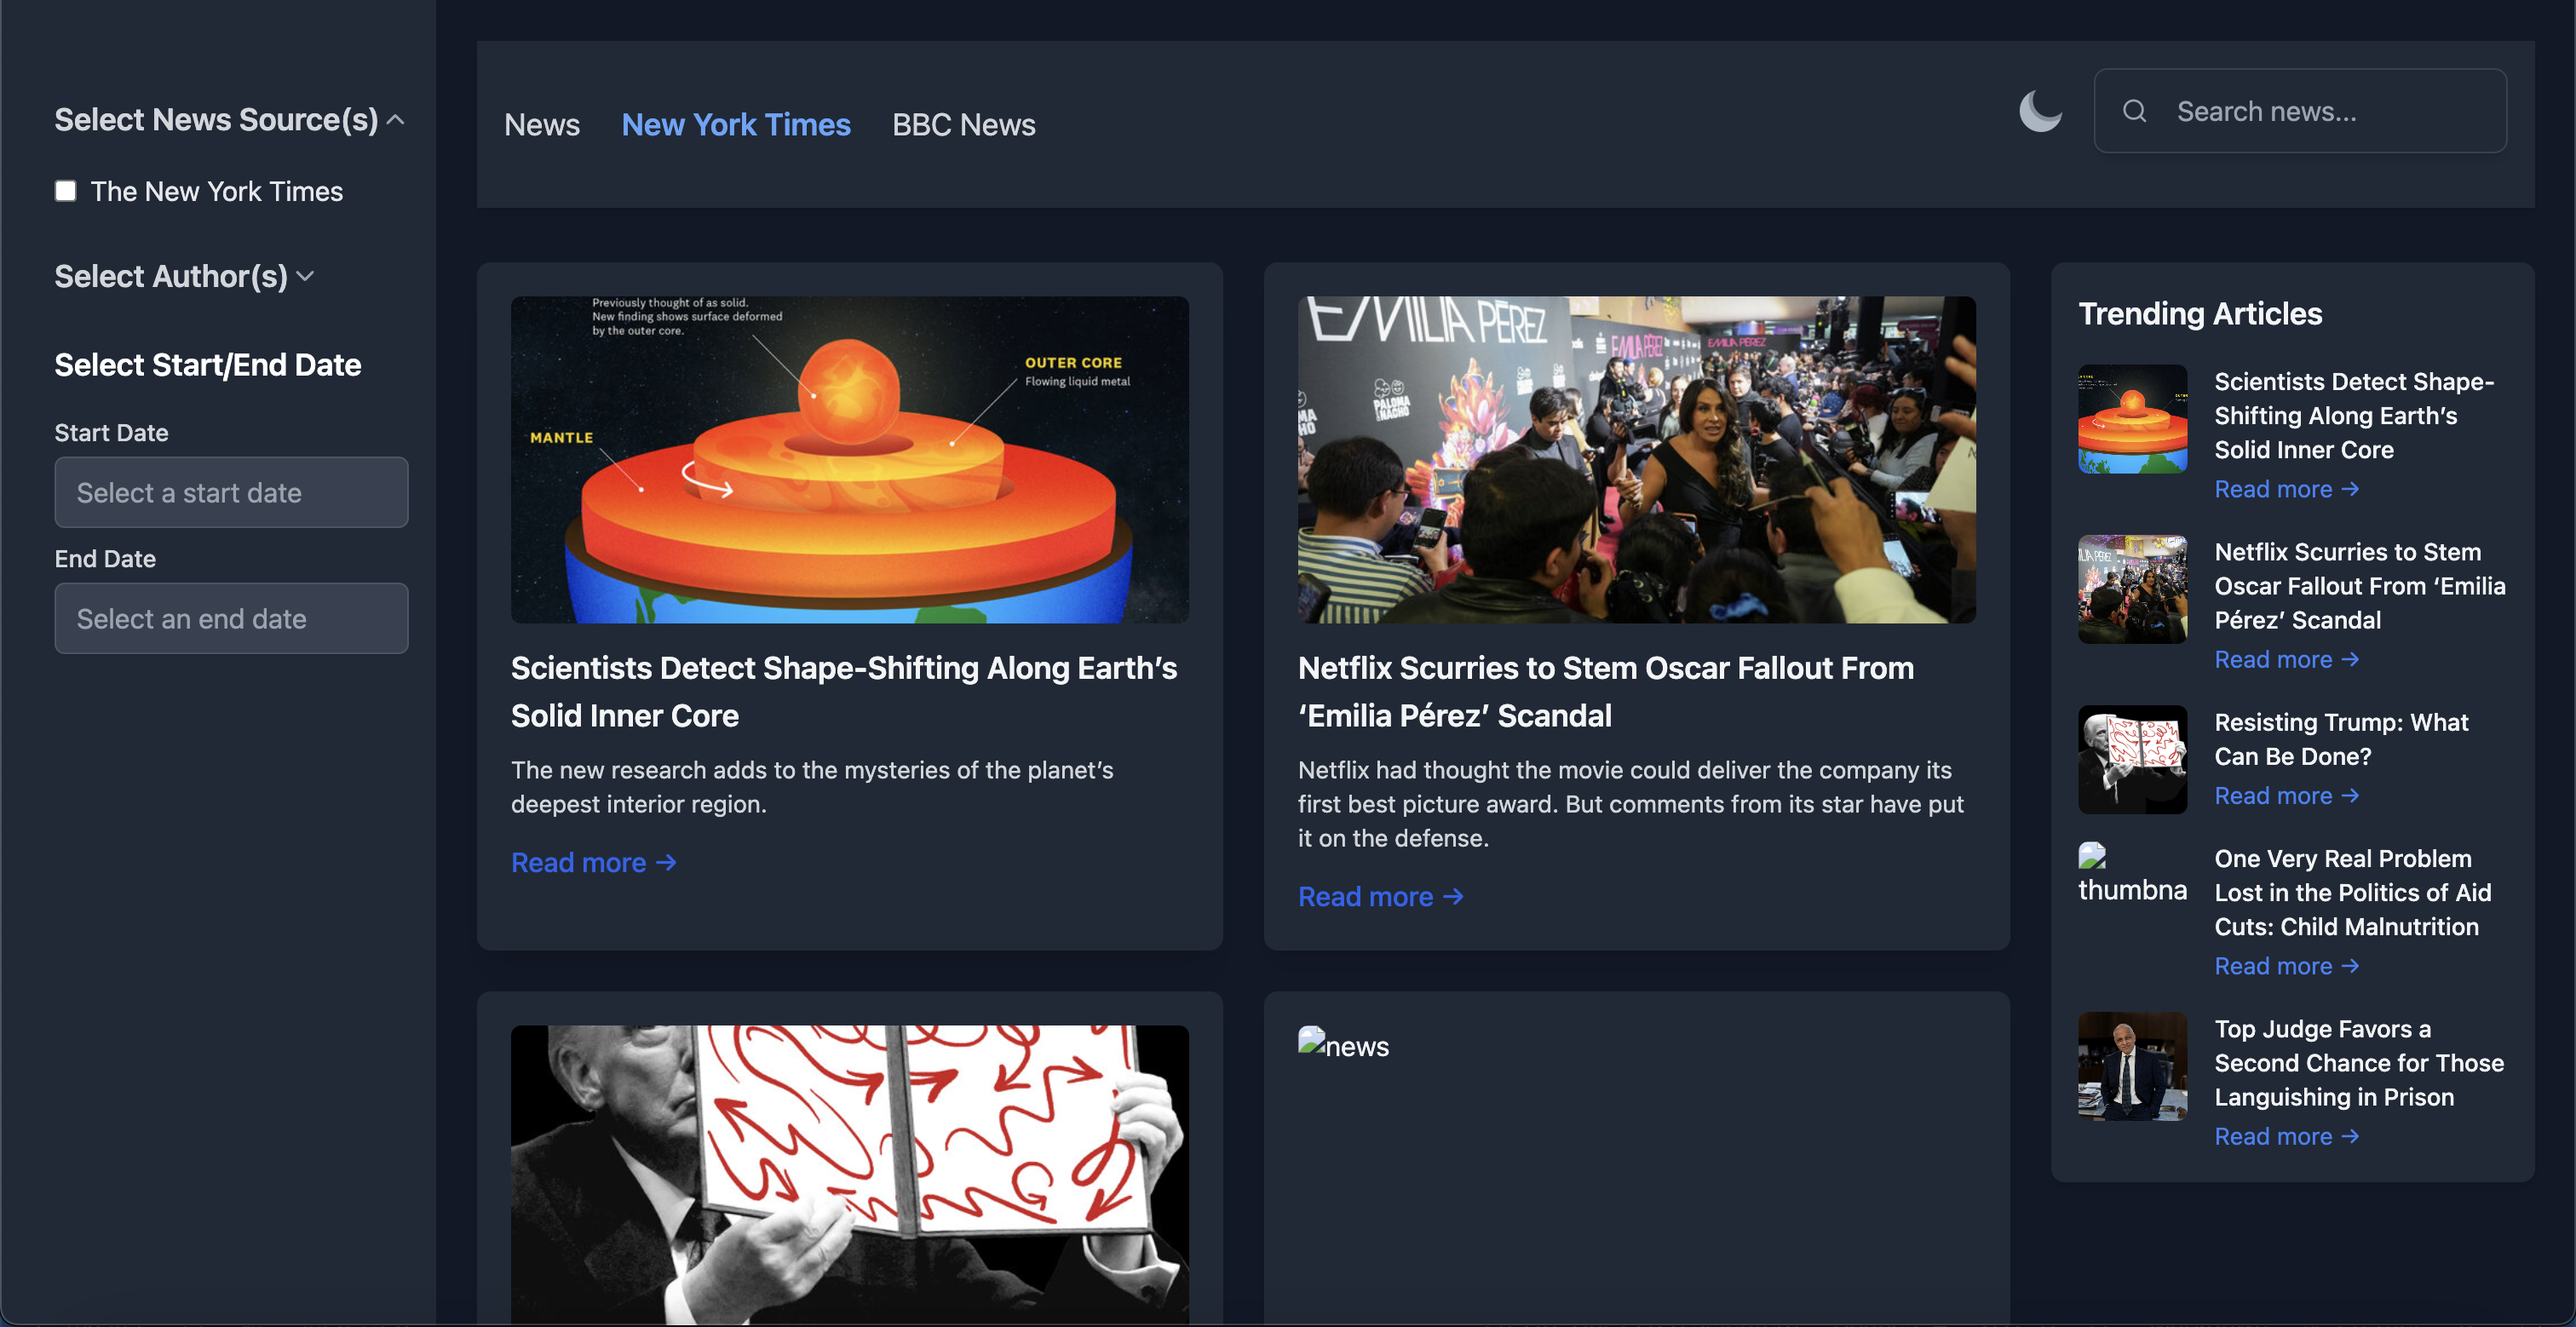
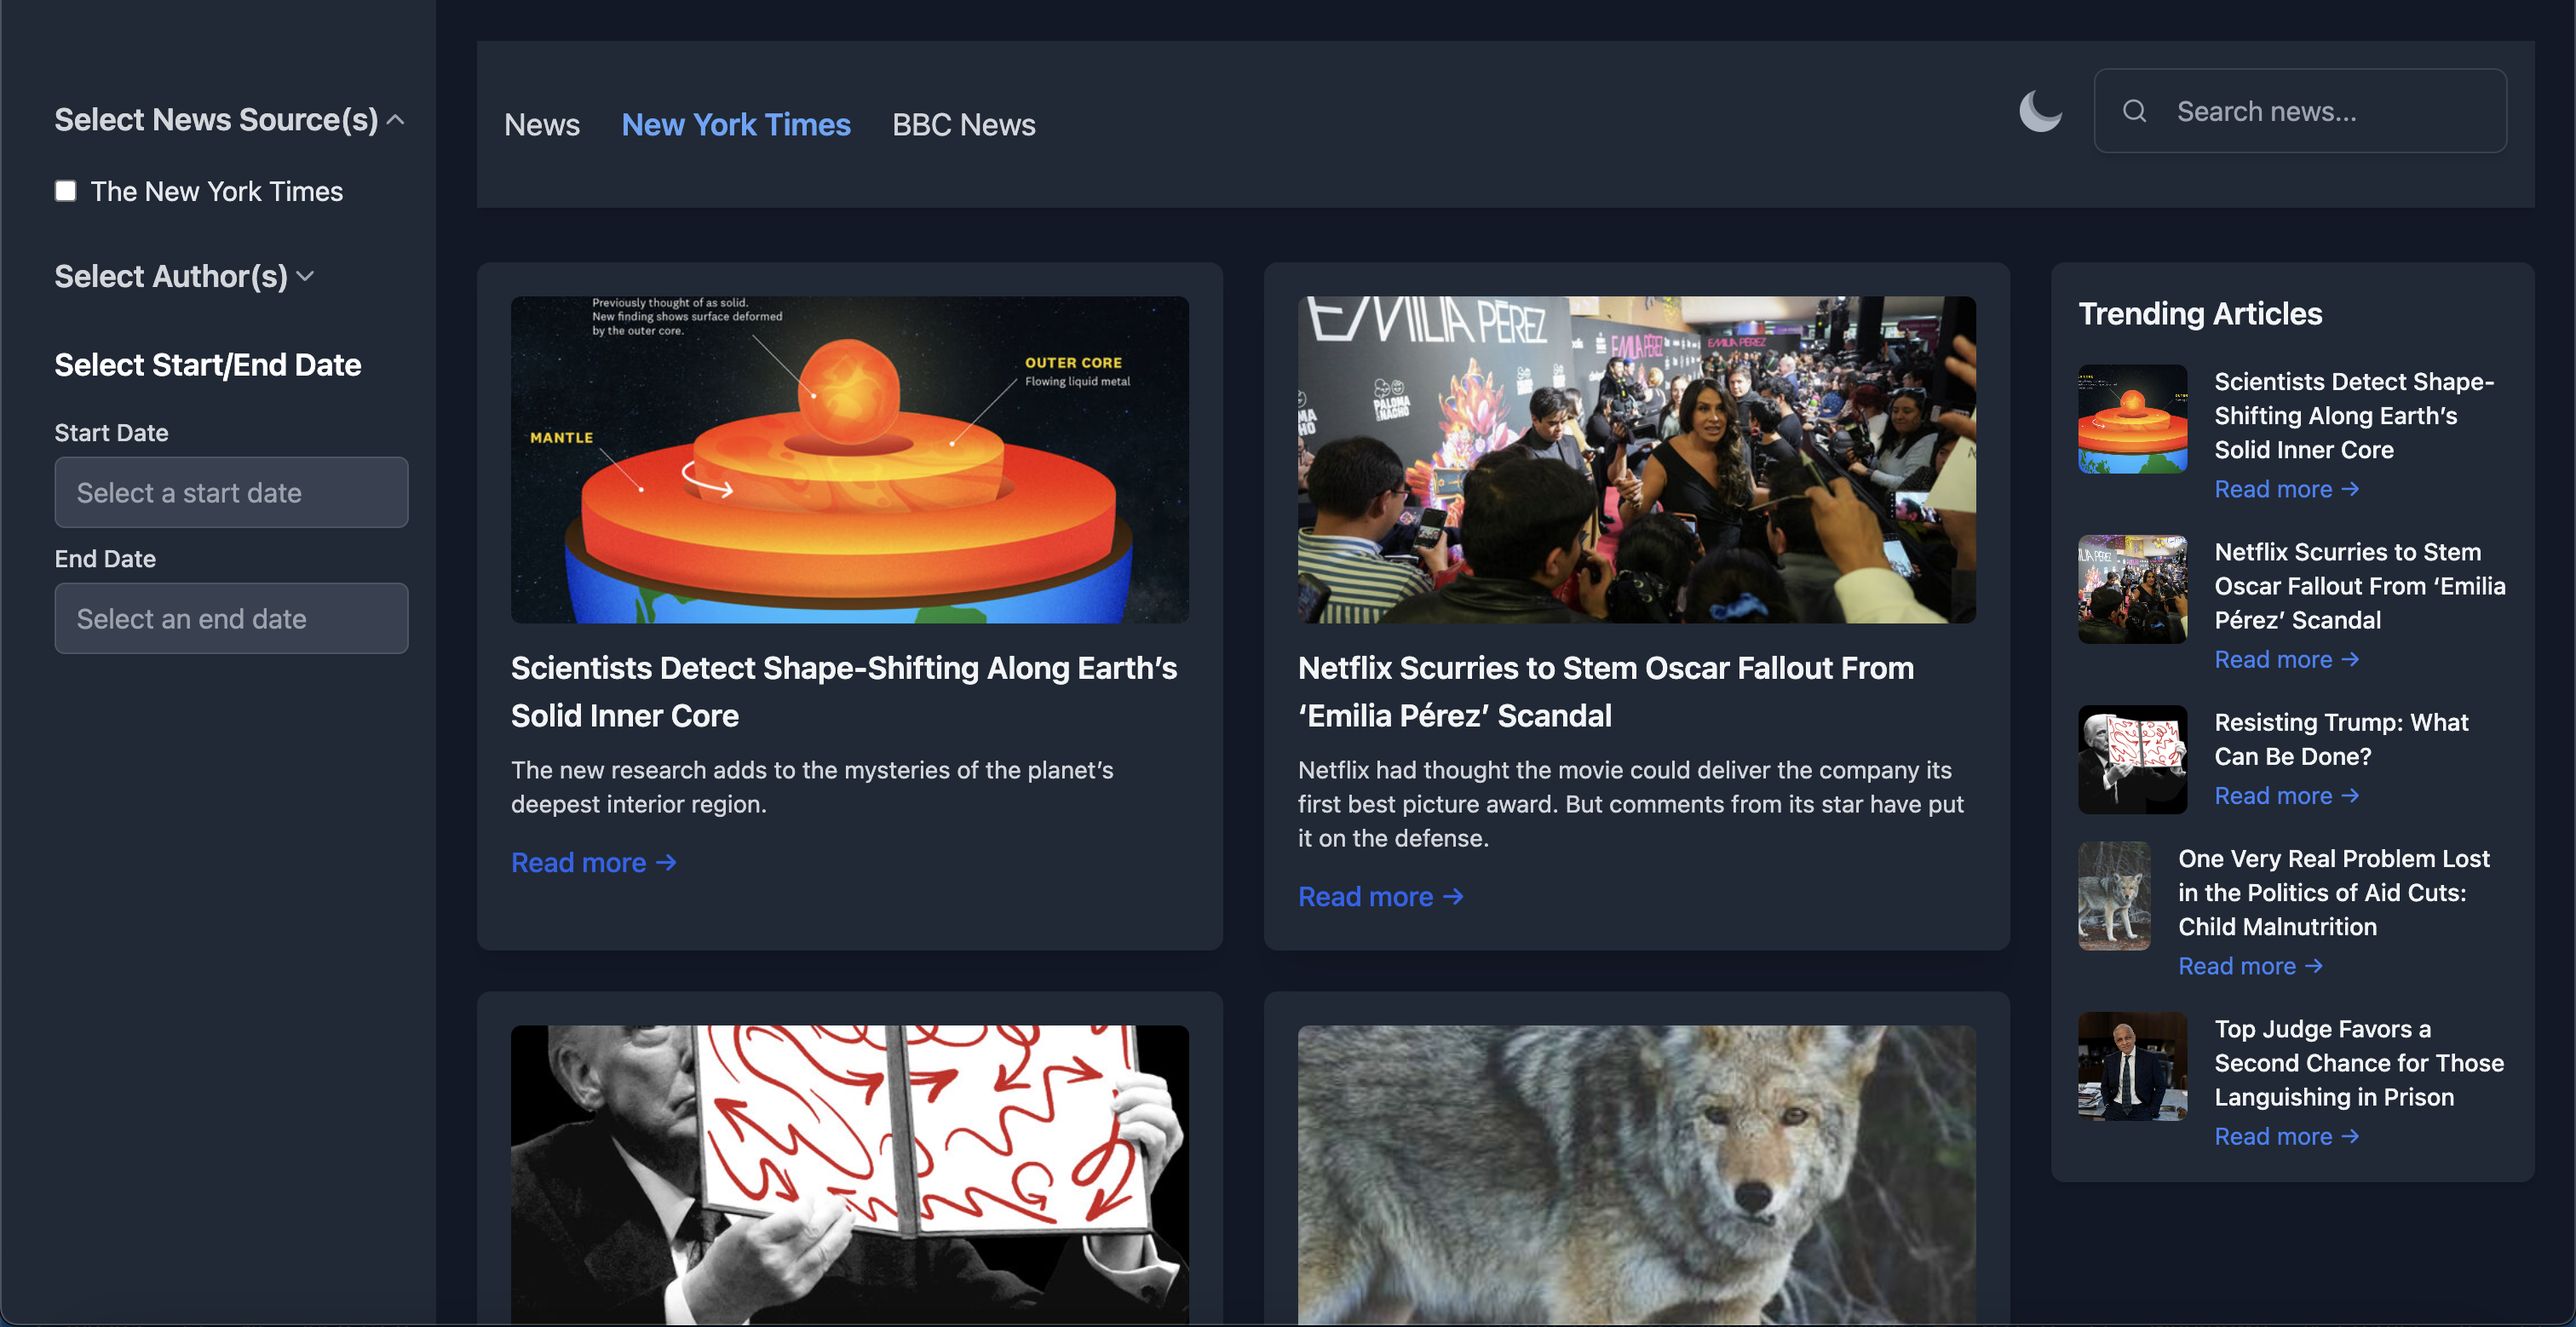
fixed image loading issue

Changed region(s): [[0.4974, 0.7702, 0.7771, 1.0], [0.8082, 0.6162, 0.9636, 0.7394]]

diff --git a/src/hooks/useNewYorkTimesArticleFilter.ts b/src/hooks/useNewYorkTimesArticleFilter.ts
@@ -122,8 +122,13 @@ const useNewYorkTimesArticleFilter = () => {
   }));
 
   const updatedArticles = filteredArticles?.map((article: any) => {
-    const imageUrl =
-      process.env.REACT_APP_API_UR + article?.multimedia?.[0]?.url;
+    let imageUrl;
+    if (article?.multimedia?.[0]?.url) {
+      imageUrl = process.env.REACT_APP_API_UR + article?.multimedia?.[0]?.url;
+    } else {
+      imageUrl = "https://picsum.photos/400/600";
+    }
+
     const description = article?.abstract;
 
     return {

diff --git a/src/components/common/ArticleContent.tsx b/src/components/common/ArticleContent.tsx
@@ -17,7 +17,7 @@ const ArticleContent: React.FC<ArticleContentProps> = ({
   status,
   articles,
 }: ArticleContentProps) => {
-  const placeHolderUrl = "";
+  const placeHolderUrl = "https://picsum.photos/400/600";
   return (
     <section className="lg:col-span-3">
       <div className="grid gap-6 grid-cols-1 sm:grid-cols-2">

diff --git a/README.md b/README.md
@@ -61,7 +61,7 @@ Switch between light and night modes to suit your preference.
 - **Frontend**: React.js, TypeScript, Tailwind CSS
 - **Routing**: React Router
 - **State Management**: Redux Toolkit
-- **API**: News API integration to fetch news data from various sources
+- **API**: News API, New York Times and BBC Apis integration to fetch news data from various sources
 - **Lazy Loading**: React.lazy for optimizing loading performance
 - **SEO**: React Helmet for dynamic page titles and metadata
 - **Routing**: React Router for dynamic navigation
